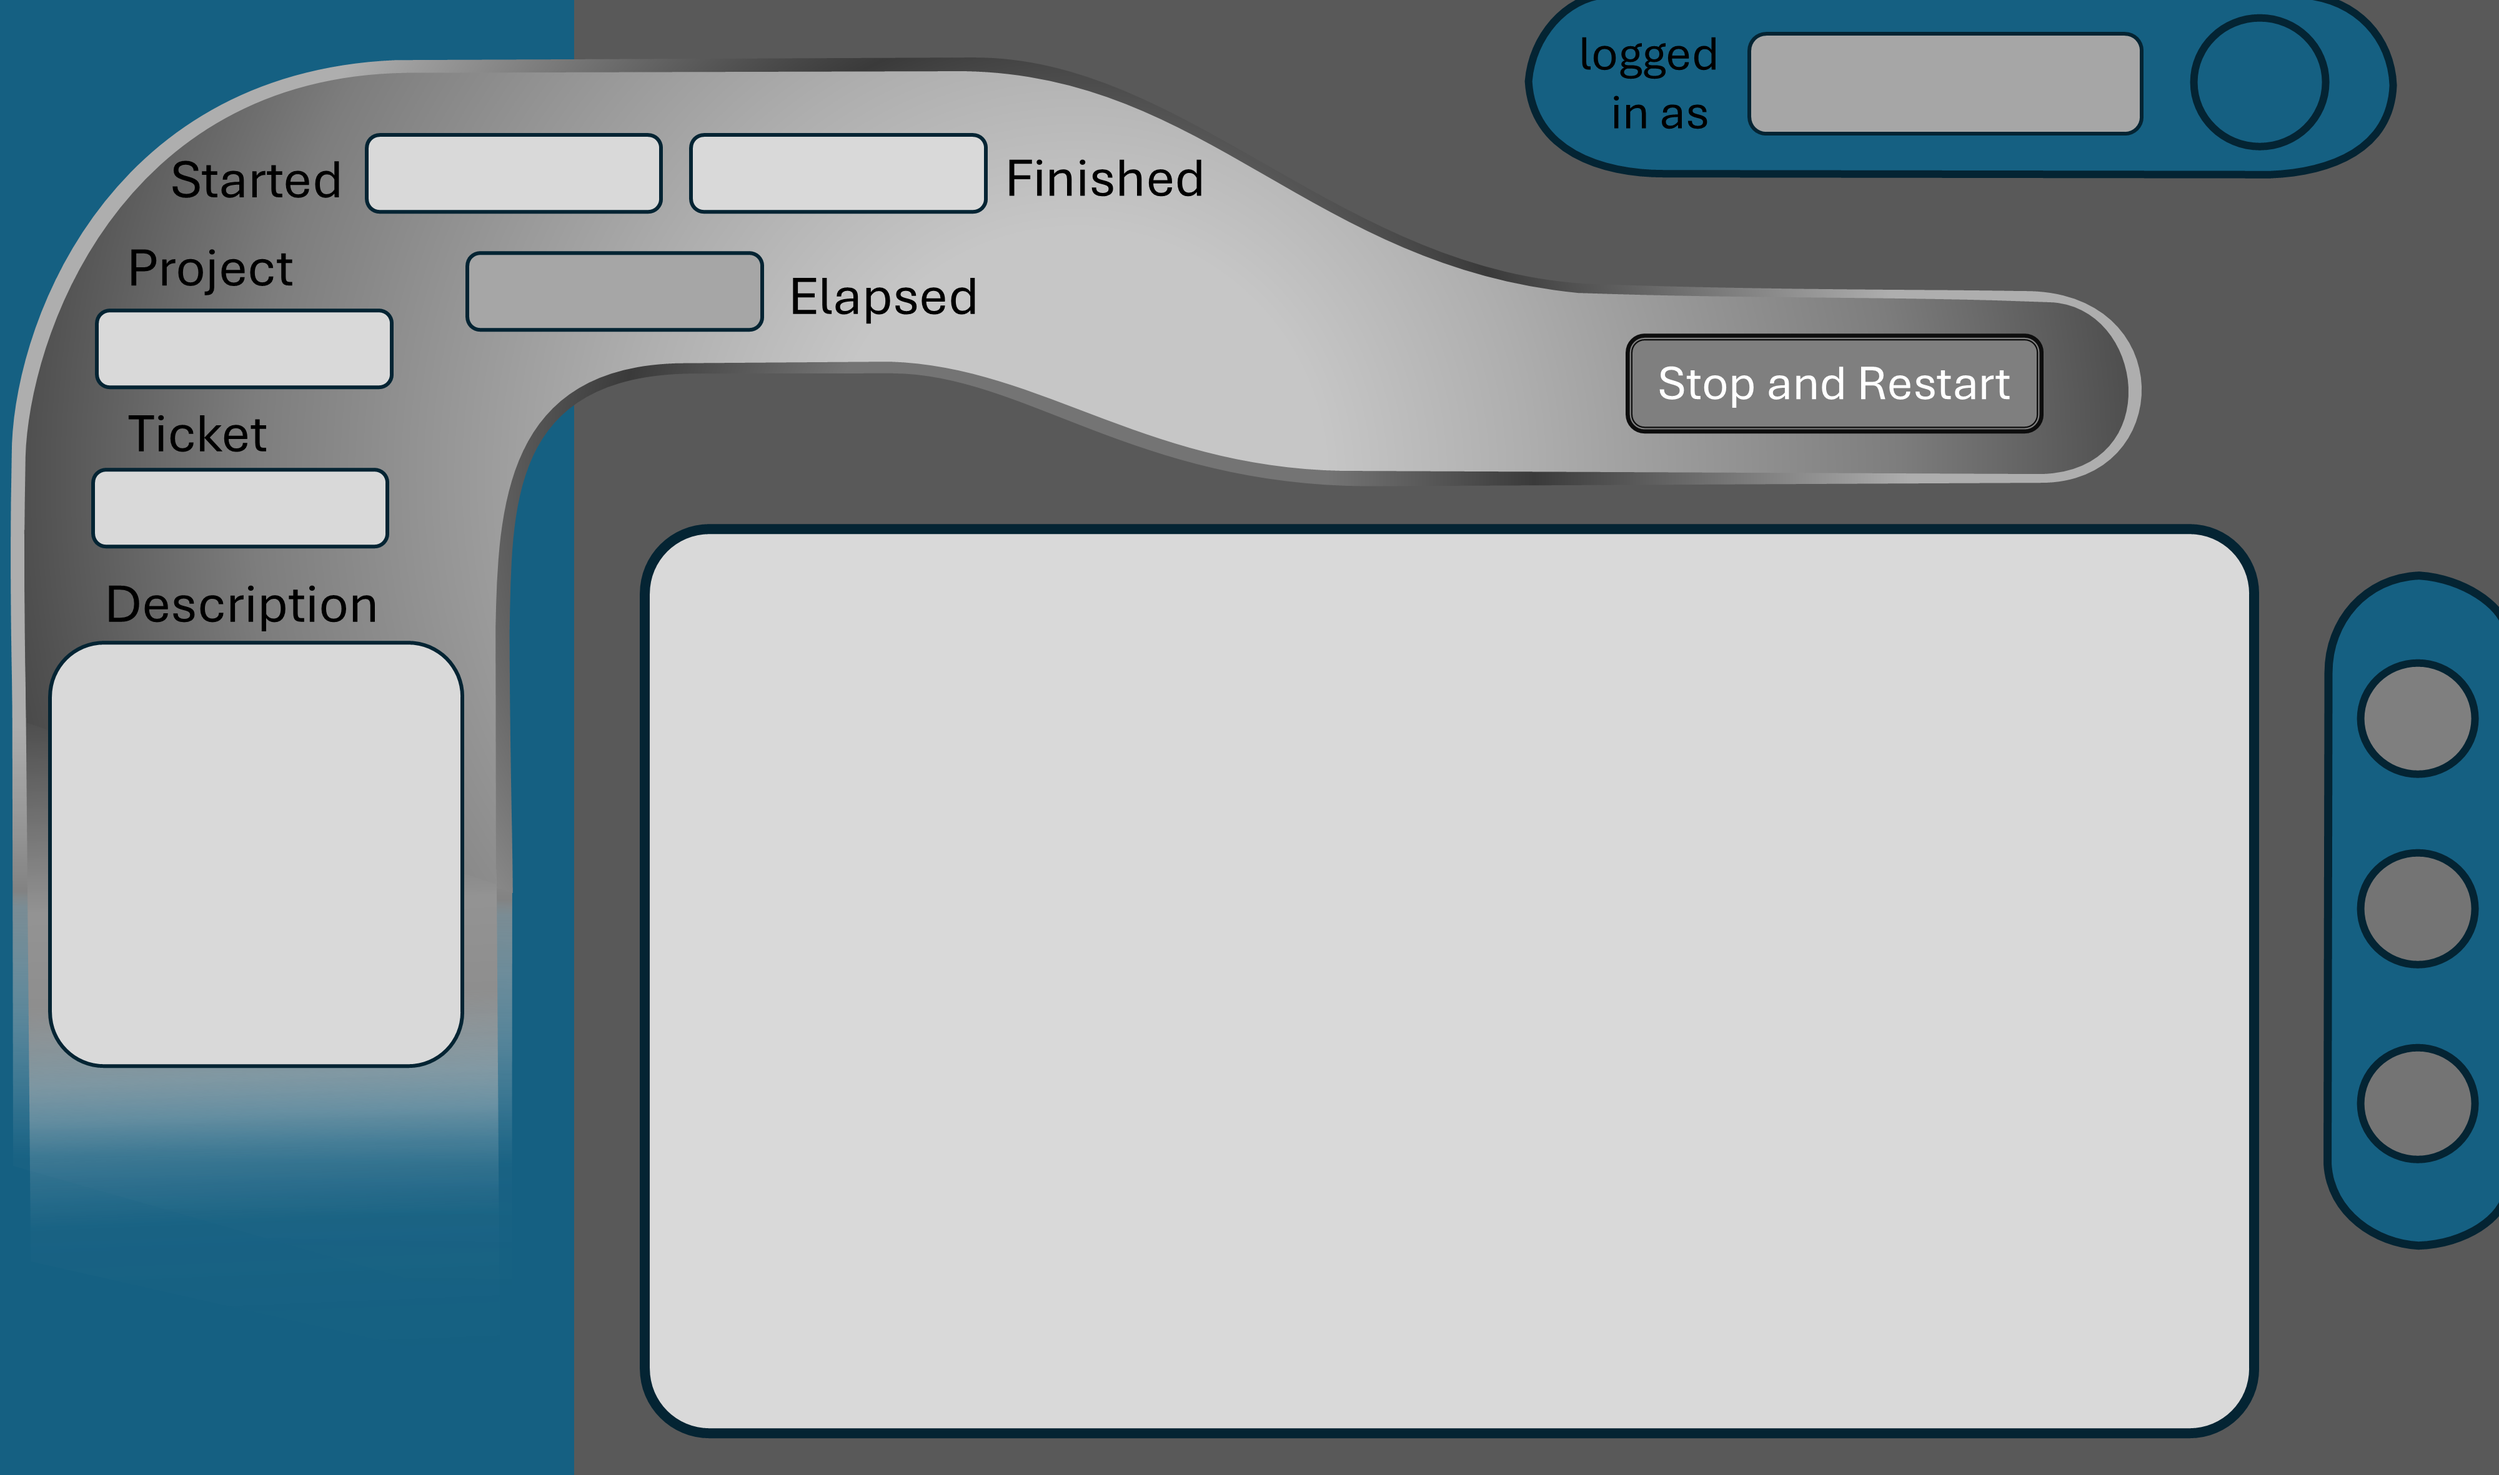
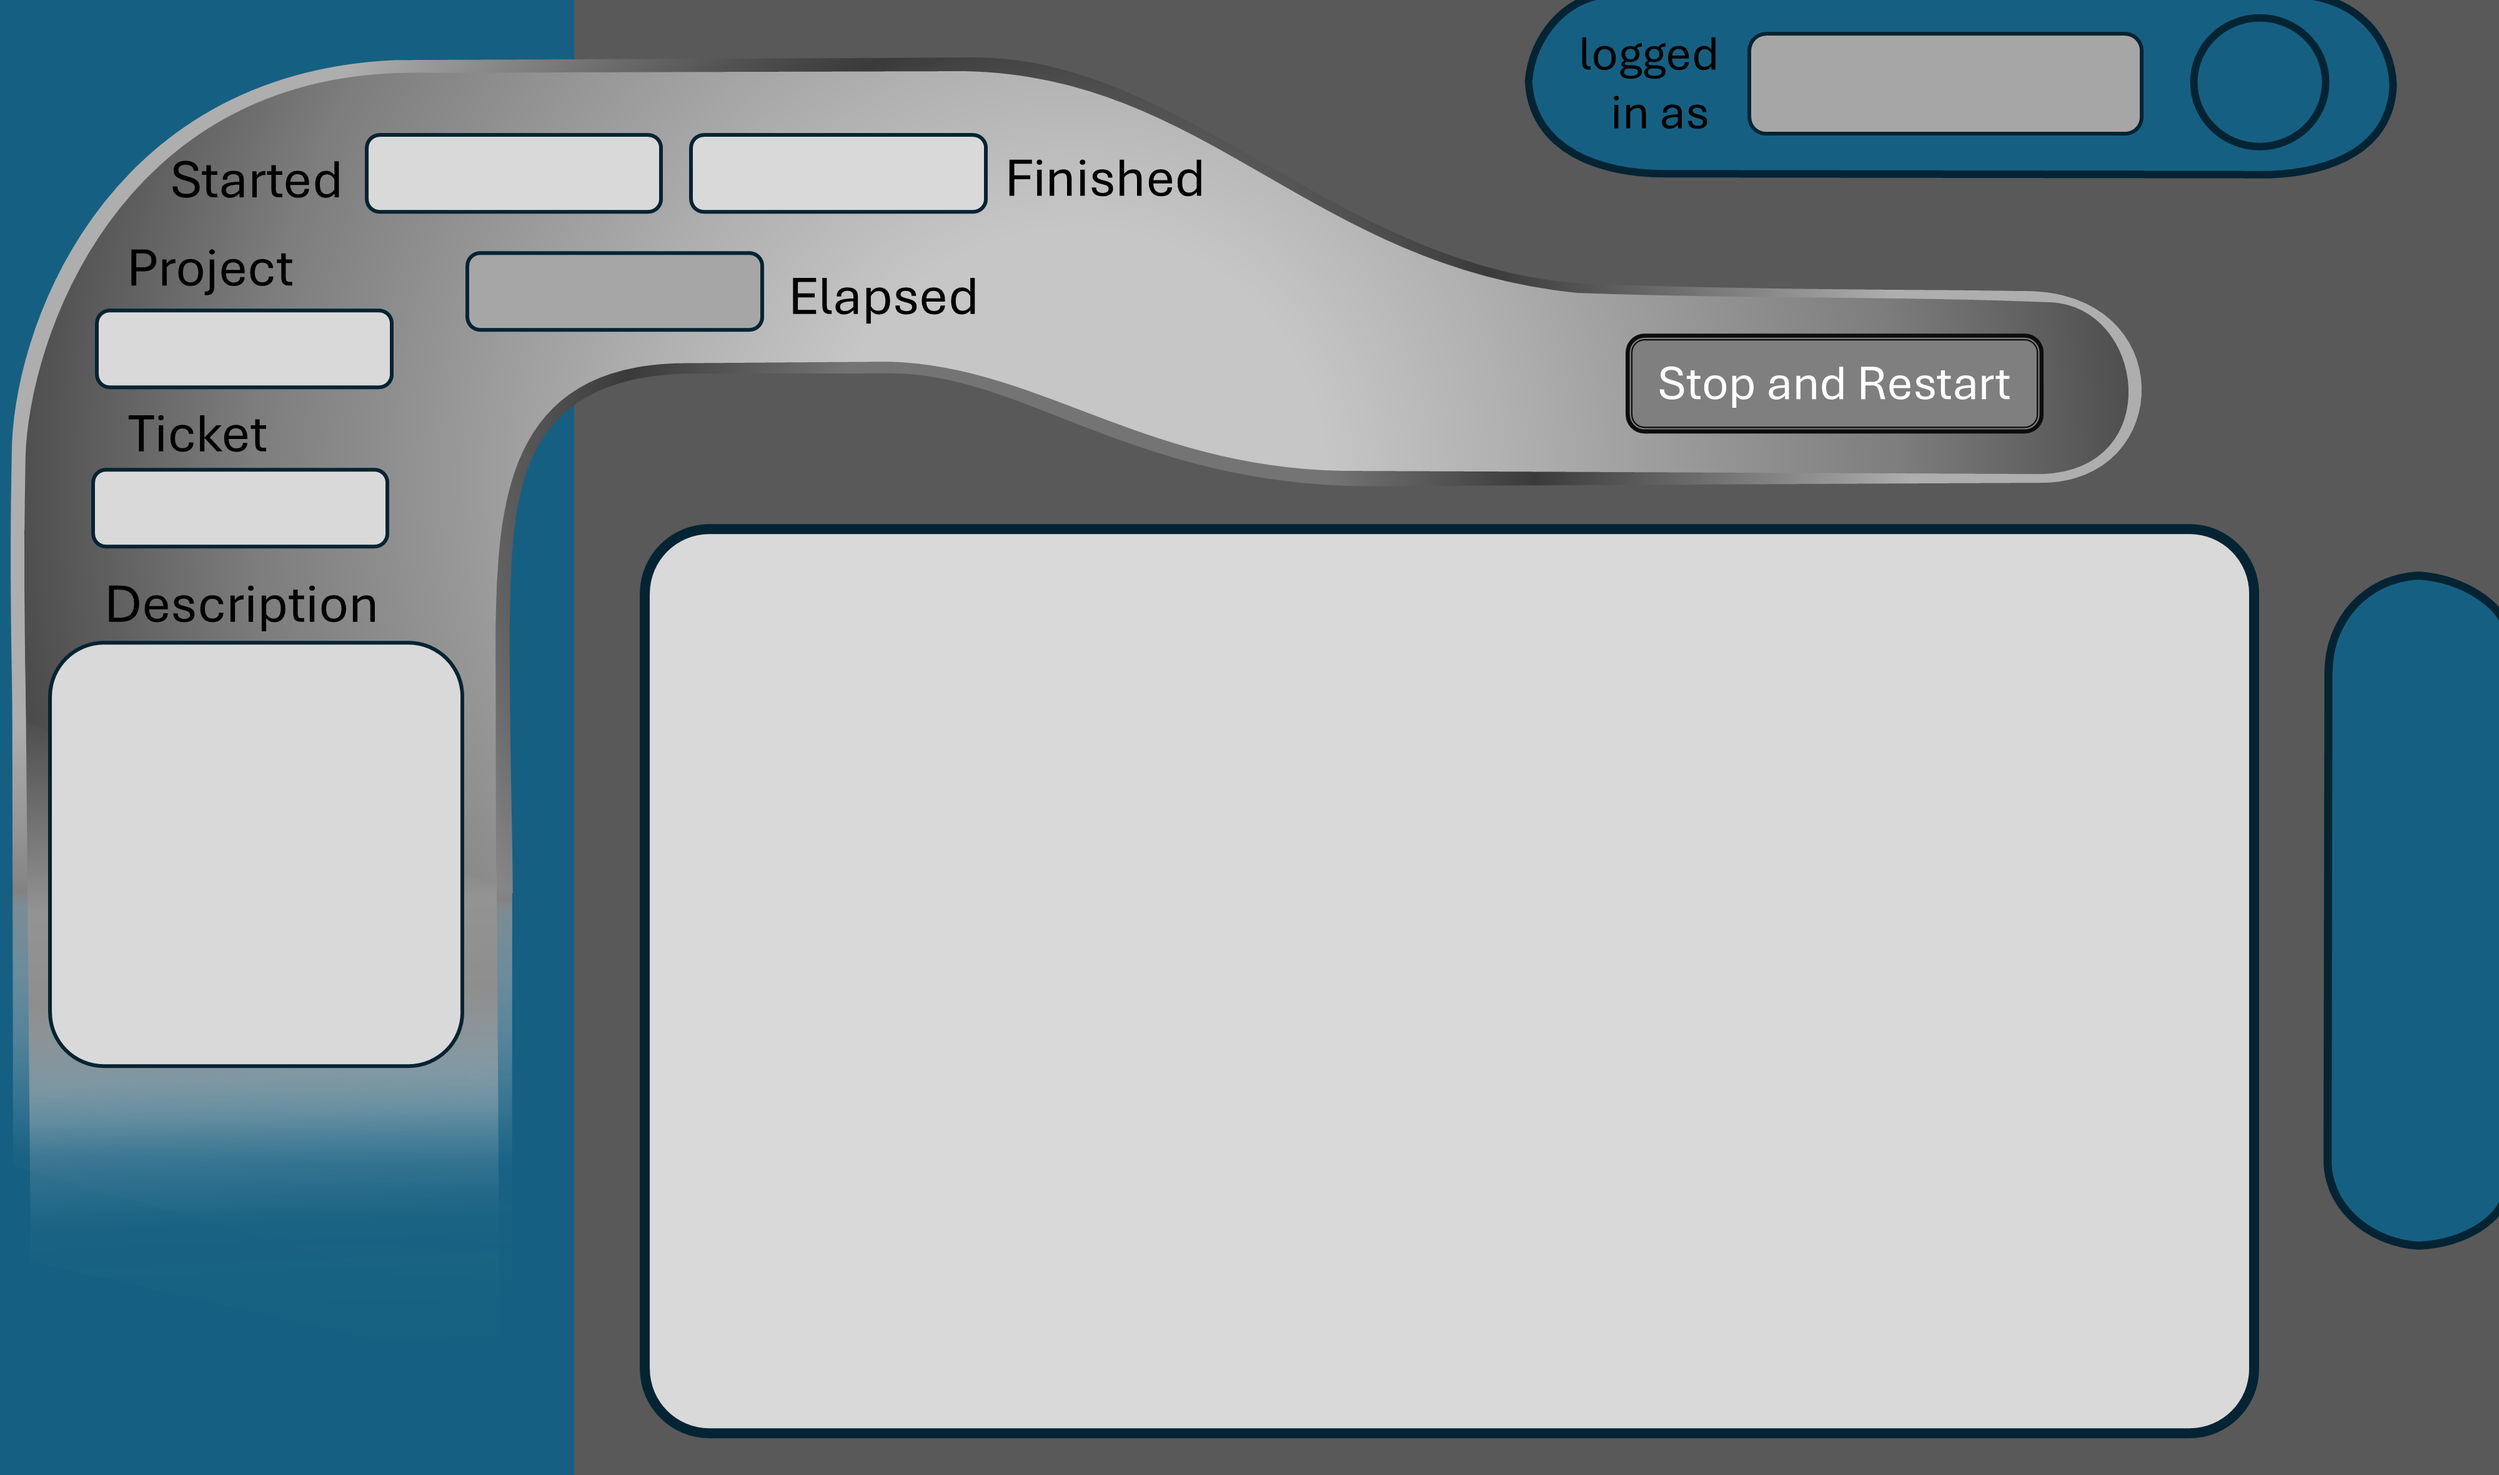
Changed the ModeButtons of Timer window to AnimatedButtons. Added the Assets for round animatedButtons.

Changed region(s): [[0.9375, 0.7108, 1.0, 0.8036], [0.9375, 0.5563, 1.0, 0.649], [0.9375, 0.4327, 1.0, 0.5254]]

diff --git a/HourGlass.GUI/Pages/Timer/TimerWindow.Designer.cs b/HourGlass.GUI/Pages/Timer/TimerWindow.Designer.cs
@@ -60,6 +60,27 @@ public partial class TimerWindow {
 			PathService.AssetsPath("button-1-pressed.png"),
 			new(83, 748, 155, 58)
 		);
+		DayModeButton = new AnimatedButton(
+			PathService.AssetsPath("button-2-normal.png"),
+			PathService.AssetsPath("button-2-hover.png"),
+			PathService.AssetsPath("button-2-disabled.png"),
+			PathService.AssetsPath("button-2-pressed.png"),
+			new(1513, 403, 72, 72)
+		);
+		WeekModeButton = new AnimatedButton(
+			PathService.AssetsPath("button-2-normal.png"),
+			PathService.AssetsPath("button-2-hover.png"),
+			PathService.AssetsPath("button-2-disabled.png"),
+			PathService.AssetsPath("button-2-pressed.png"),
+			new(1513, 522, 72, 72)
+		);
+		MonthModeButton = new AnimatedButton(
+			PathService.AssetsPath("button-2-normal.png"),
+			PathService.AssetsPath("button-2-hover.png"),
+			PathService.AssetsPath("button-2-disabled.png"),
+			PathService.AssetsPath("button-2-pressed.png"),
+			new(1513, 641, 72, 72)
+		);
 		StartTextbox = new TextBox();
 		FinishTextbox = new TextBox();
 		GraphPanel = new GraphRenderer();
@@ -73,9 +94,9 @@ public partial class TimerWindow {
 		DescriptionTextBox = new RichTextBox();
 		SettingsButton = new Button();
 		ElapsedTimeLabel = new Label();
-		DayModeButton = new Button();
-		WeekModeButton = new Button();
-		MonthModeButton = new Button();
+		//DayModeButton = new Button();
+		//WeekModeButton = new Button();
+		//MonthModeButton = new Button();
 		button2 = new Button();
 		GraphPanel = new GraphRenderer(_dbService, windowMode, this);
 		SuspendLayout();
@@ -183,48 +204,18 @@ public partial class TimerWindow {
 		// 
 		// DayModeButton
 		// 
-		DayModeButton.BackColor = Color.Transparent;
-		DayModeButton.FlatAppearance.BorderSize = 0;
-		DayModeButton.FlatAppearance.MouseDownBackColor = Color.Transparent;
-		DayModeButton.FlatAppearance.MouseOverBackColor = Color.Transparent;
-		DayModeButton.FlatStyle = FlatStyle.Flat;
-		DayModeButton.Location = new Point(1515, 405);
-		DayModeButton.Name = "DayModeButton";
-		DayModeButton.Size = new Size(68, 67);
-		DayModeButton.TabIndex = 20;
-		DayModeButton.Text = "Day";
-		DayModeButton.UseVisualStyleBackColor = true;
 		DayModeButton.Click += DayModeButtonButtonClick;
+		DayModeButton.AddOnPaintEvent(DayModeButtonPaint);
 		// 
 		// WeekModeButton
 		// 
-		WeekModeButton.BackColor = Color.Transparent;
-		WeekModeButton.FlatAppearance.BorderSize = 0;
-		WeekModeButton.FlatAppearance.MouseDownBackColor = Color.Transparent;
-		WeekModeButton.FlatAppearance.MouseOverBackColor = Color.Transparent;
-		WeekModeButton.FlatStyle = FlatStyle.Flat;
-		WeekModeButton.Location = new Point(1515, 522);
-		WeekModeButton.Name = "WeekModeButton";
-		WeekModeButton.Size = new Size(68, 67);
-		WeekModeButton.TabIndex = 20;
-		WeekModeButton.Text = "Week";
 		WeekModeButton.Click += WeekModeButtonButtonClick;
-		WeekModeButton.UseVisualStyleBackColor = true;
+		WeekModeButton.AddOnPaintEvent(WeekModeButtonPaint);
 		// 
 		// MonthModeButton
 		// 
-		MonthModeButton.BackColor = Color.Transparent;
-		MonthModeButton.FlatAppearance.BorderSize = 0;
-		MonthModeButton.FlatAppearance.MouseDownBackColor = Color.Transparent;
-		MonthModeButton.FlatAppearance.MouseOverBackColor = Color.Transparent;
-		MonthModeButton.FlatStyle = FlatStyle.Flat;
-		MonthModeButton.Location = new Point(1515, 641);
-		MonthModeButton.Name = "MonthModeButton";
-		MonthModeButton.Size = new Size(68, 67);
-		MonthModeButton.TabIndex = 20;
-		MonthModeButton.Text = "Month";
 		MonthModeButton.Click += MonthModeButtonButtonClick;
-		MonthModeButton.UseVisualStyleBackColor = true;
+		MonthModeButton.AddOnPaintEvent(MonthModeButtonPaint);
 		// 
 		// button2
 		// 
@@ -306,9 +297,9 @@ public partial class TimerWindow {
 	private Label TicketLabel;
 	private Label ProjectLabel;
 	private Button button2;
-	private Button DayModeButton;
-	private Button WeekModeButton;
-	private Button MonthModeButton;
+	private AnimatedButton DayModeButton;
+	private AnimatedButton WeekModeButton;
+	private AnimatedButton MonthModeButton;
 	private AnimatedButton ExportButton;
 	private AnimatedButton ImportButton;
 }

diff --git a/HourGlass.GUI/Pages/Timer/TimerWindow.cs b/HourGlass.GUI/Pages/Timer/TimerWindow.cs
@@ -303,4 +303,27 @@ public partial class TimerWindow : Form {
 	protected override void OnPaint(PaintEventArgs args) {
 		args.Graphics.DrawImage(image, 0, 0, ClientSize.Width, ClientSize.Height);
 	}
+
+	private void DayModeButtonPaint(PaintEventArgs args) {
+		int startOffset = DateTimeService.GetMondayOfCurrentWeek().DayOfWeek switch {
+			DayOfWeek.Monday => 2,
+			DayOfWeek.Tuesday => 3,
+			DayOfWeek.Wednesday => 4,
+			DayOfWeek.Thursday => 5,
+			DayOfWeek.Friday => 6,
+			DayOfWeek.Sunday => 1,
+			_ => 0
+		};
+		for(int i=0; i<DateTimeService.)
+		using Brush brush = new SolidBrush(Color.FromArgb(200,200,200,255));
+		args.Graphics.FillRectangle(brush, new(0,0,10,10));
+	}
+
+	private void WeekModeButtonPaint(PaintEventArgs args) {
+		//throw new NotImplementedException();
+	}
+
+	private void MonthModeButtonPaint(PaintEventArgs args) {
+		//throw new NotImplementedException();
+	}
 }

diff --git a/HourGlass.GUI/GuiComponents/AnimatedButton.cs b/HourGlass.GUI/GuiComponents/AnimatedButton.cs
@@ -67,7 +67,7 @@ public class AnimatedButton:Button, IDisposable{
 			wrapMode.SetWrapMode(WrapMode.Clamp);
 			args.Graphics.DrawImage(currentImage, 0, 0, Size.Width, Size.Height);
 		}
-		using(var brush = new SolidBrush(this.ForeColor))
+		using(var brush = new SolidBrush(ForeColor))
 		args.Graphics.DrawString(Text, Font, brush, Width/2-args.Graphics.MeasureString(Text, Font).Width/2, Height / 2 - args.Graphics.MeasureString(Text, Font).Height / 2);
 		foreach(var action in additionalPaintActions)
 			action.Invoke(args);
